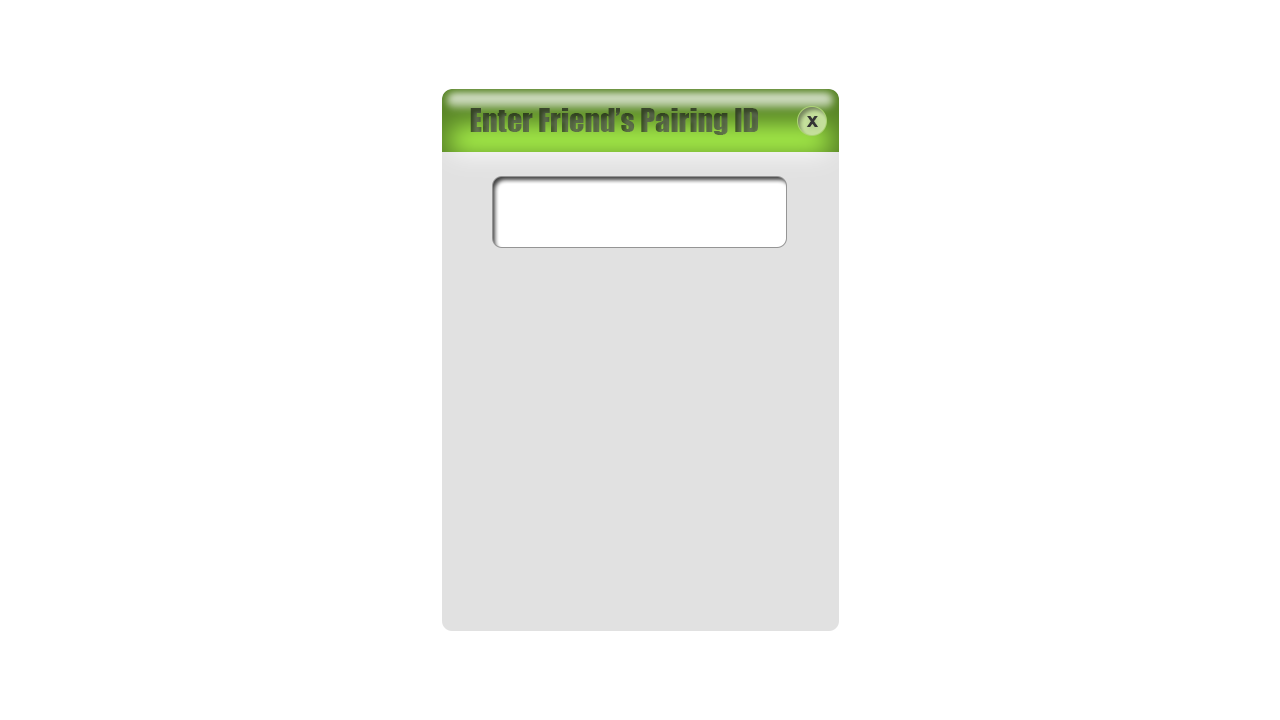
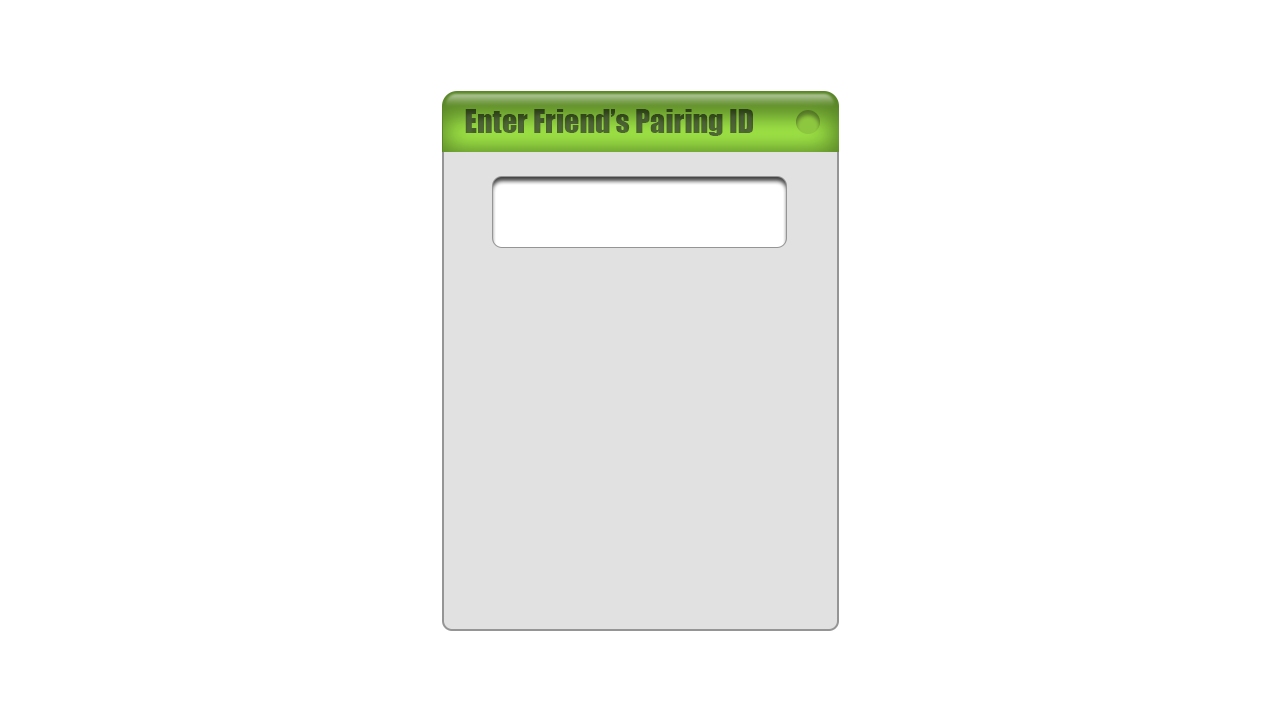
Canga All

diff --git a/client/assets/js/main.js b/client/assets/js/main.js
@@ -793,15 +793,15 @@ window.onload = function () {
 
             var window = this.add.image (0, 0, 'pairing_placement' ).setOrigin ( 0 ).setScale(_gameW/1280);
 
-            var cX = Math.floor ( 797 * _gameW/1280 ),
-                cY = Math.floor ( 106 * _gameH/720 ),
+            var cX = Math.floor ( 793 * _gameW/1280 ),
+                cY = Math.floor ( 107 * _gameH/720 ),
                 cS = Math.floor ( 15 * _gameW/1280 );
 
             var circ = this.add.circle ( cX, cY, cS, 0xc3c3c3, 1 ).setAlpha(0.1).setOrigin(0).setInteractive();
 
 
             circ.on('pointerover', function () {
-                this.setAlpha (0.5);
+                this.setAlpha (0.2);
             });
             circ.on('pointerout', function () {
                 this.setAlpha(0.1);
@@ -1982,11 +1982,11 @@ window.onload = function () {
 
             if ( this.isEmoji ) {
 
-                this.emojiSCreen = this.add.image (0,0,'send_emoji').setOrigin(0).setScale(_gameW/1280 );
+                this.emojiSCreen = this.add.image (0,0,'send_emoji').setOrigin(0).setScale(_gameW/1280 ).setDepth (9999);
 
-                var bts = Math.floor ( 55 * _gameW/1280 ),
-                    btx = Math.floor ( 800 * _gameW/1280 ),
-                    bty = Math.floor ( 167 * _gameH/720 );
+                var bts = Math.floor ( 70 * _gameW/1280 ),
+                    btx = Math.floor ( 760 * _gameW/1280 ),
+                    bty = Math.floor ( 170 * _gameH/720 );
                     
                 var emojiCount = 24;
 
@@ -2041,7 +2041,7 @@ window.onload = function () {
                     this.clickables.push ( clicks );
 
 
-                    var emoji = this.add.image ( xpos , ypos, 'emojis', i ).setScale(_gameW/1280 * 0.5 ).setDepth (9999);
+                    var emoji = this.add.image ( xpos , ypos, 'emojis', i ).setScale(_gameW/1280 * 0.7 ).setDepth (9999);
 
                     this.myEmojis.push ( emoji );
 
@@ -2079,7 +2079,7 @@ window.onload = function () {
                 var stw = this.pieceDimensions.width,
                     sth = this.pieceDimensions.height;
 
-                var stxa = Math.floor ( 115 * _gameW/1280 ),
+                var stxa = Math.floor ( 130 * _gameW/1280 ),
                     stxb = Math.floor ( 685 * _gameW/1280 ),
                     //stxa = Math.floor ( 58 * _gameW/1280 ),
                     //stxb = Math.floor ( 631 * _gameW/1280 ),
